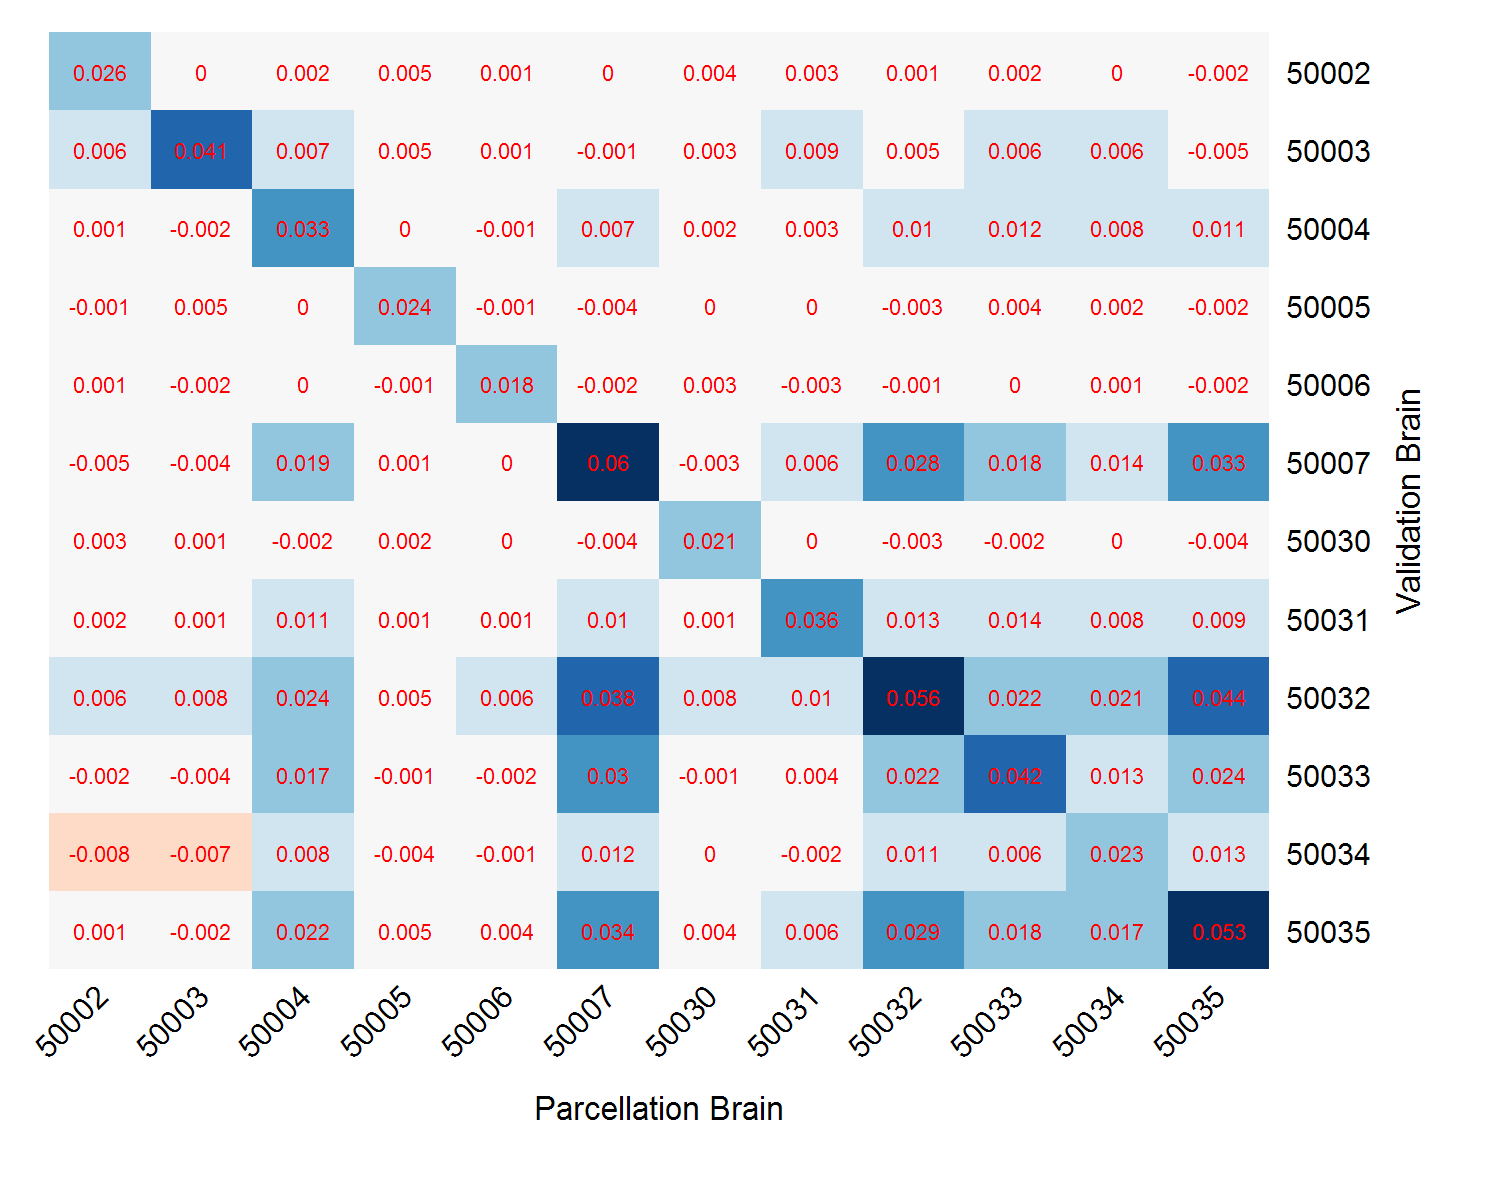
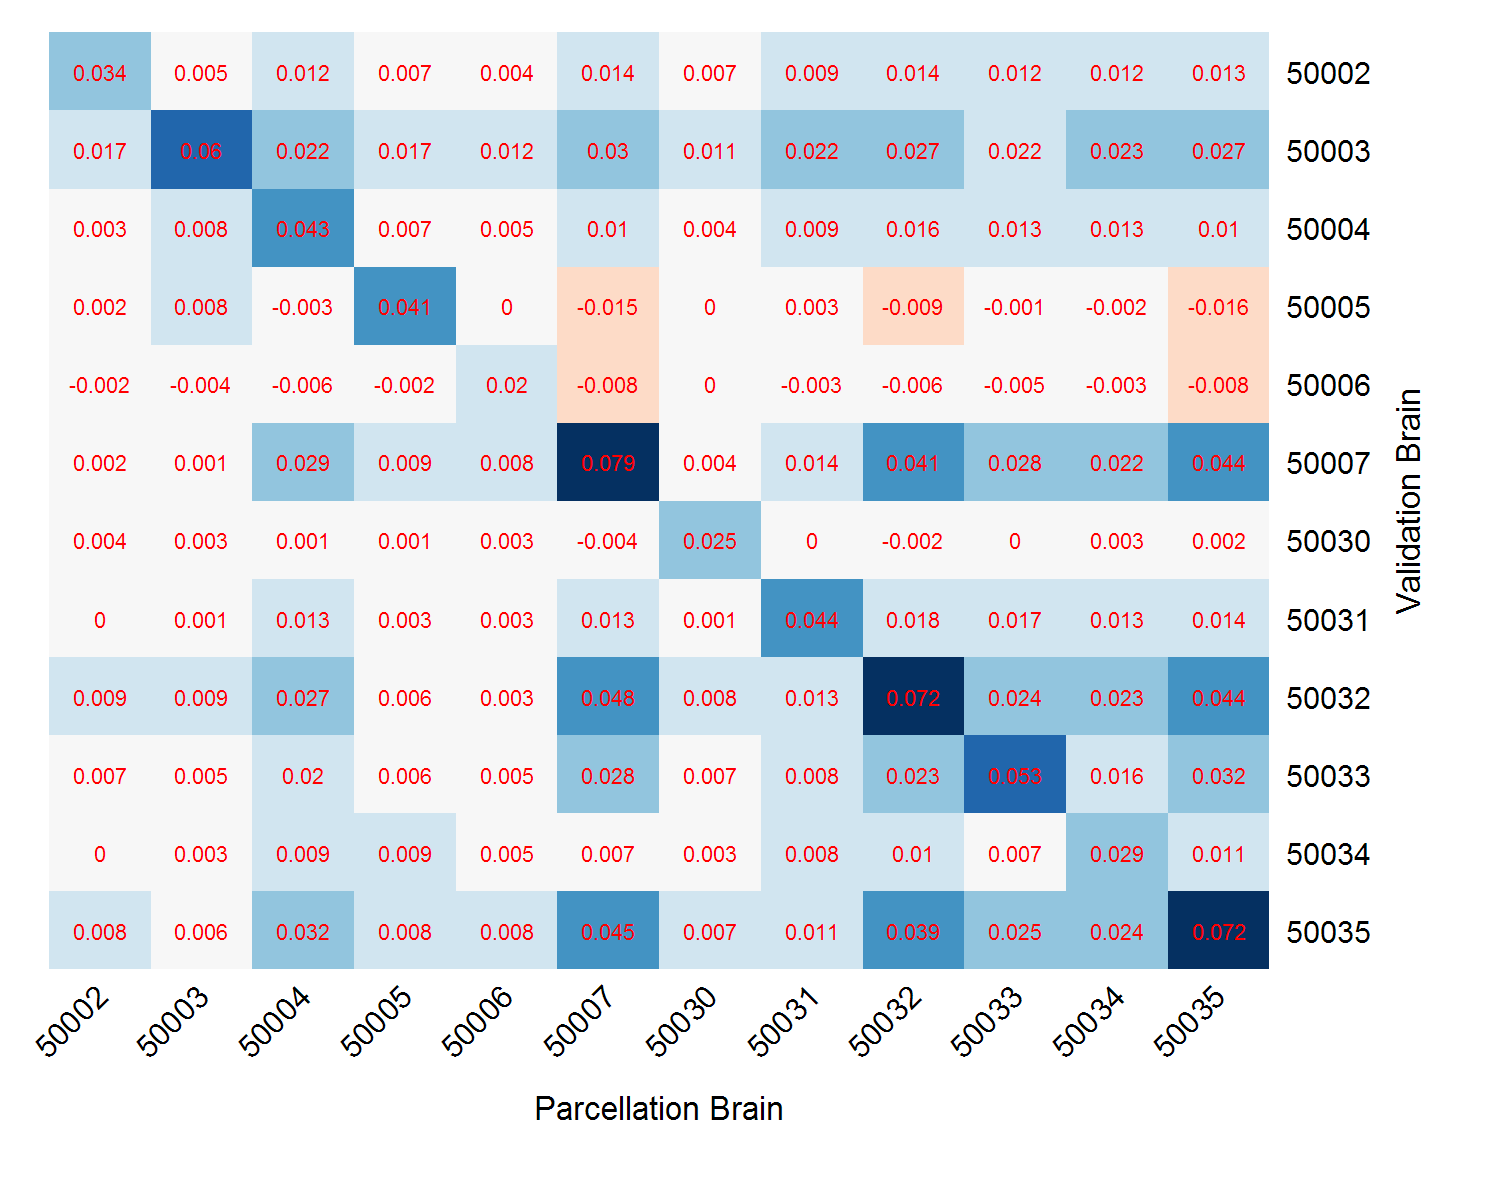
edits

diff --git a/writeup/intro.tex b/writeup/intro.tex
@@ -1,6 +1,3 @@
-% 1. fact check claim that other brain parcellation studies use
-%    Pearson's correlation (not absolute value) as edge weights
-%#######################################################################
 
 Paragraph 1: Write here what would happen in the ideal world
 
@@ -10,136 +7,120 @@ Paragraph 3: Write here what we do instead to overcome this problem
 
 \section{fMRI Background}
 
-{\color{blue}
+Functional magnetic resonance imaging (fMRI) is a technique that
+measures brain activity. It does this by measuring blood flow and
+oxygenation in different parts of the brain. When an area of the brain
+is in use, it consumes more oxygen and hence requires more blood.
+The fMRI machine detects magnetic signals from the hydrogen atoms of
+water molecules in blood. The signal emitted depends on the contents
+of the blood, in particular how much oxygen it contains. This detection
+method is referred to as blood-oxygen-level dependent, or BOLD.
 
-Functional magnetic resonance imaging or functional MRI (fMRI) is a
-functional neuroimaging procedure using MRI technology that measures
-brain activity by detecting changes associated with blood flow.
-When an area of the brain is in use, blood flow to that region also
-increases. The primary form of fMRI uses the blood-oxygen-level
-dependent (BOLD) contrast. The fMRI concept builds on the earlier MRI
-scanning technology and the discovery of properties of oxygen-rich
-blood. 
-The basis of MRI revolves around changing the magnetic moment of proton
-in hydrogen atoms abundantly found in the human body. MRI brain scans
-use a strong, permanent, static magnetic field to align nuclei in the
-brain region being studied. Another magnetic field, the gradient field,
-is then applied to spatially locate different nuclei.
+The fMRI machine detects, for all regions of the brain, the change in
+magnetic signal within a given time frame (typically 2 seconds) and
+records this as a 3-dimensional image. This image is comprised of units
+called voxels, each representing a cube of brain tissue. These 3-D units
+are analogous to 2-D pixels that make up computer screens. Each voxel
+represent around a million brain cells.
 
-Finally, a radiofrequency (RF) pulse is played to kick the nuclei to
-higher magnetization levels, with the effect now depending on where
-they are located. When the RF field is removed, the nuclei go back to
-their original states, and the energy they emit is measured with a coil
-to recreate the positions of the nuclei. MRI thus provides a static
-structural view of brain matter. The central thrust behind fMRI was to
-extend MRI to capture functional changes in the brain caused by
-neuronal activity. Differences in magnetic properties between arterial
-(oxygen-rich) and venous (oxygen-poor) blood provided this link.
-
-The fMRI machine records the relative change detected within a time
-frame (typically 2 seconds) in magnetization as a 3-dimensional image.
-The 3-dimensionsal image it provides is built up in units called
-voxels. Each one represents a tidy cube of brain tissue -- a 3-D image
-building block analogous to the 2-D pixel of computers screens,
-televisions or digital cameras. When visualized on a monitor, typically
-each intensity level is encoded as a varying shade of gray. \{Probably
-good to include an image of the ``typical" fMRI scan\}
-
-Each voxel can represent a million or so brain cells. As measurements
-are made over time (for example, over 10 minutes), the neuroscietist
-collects multiple 3-dimensional images in the form of a time series. 
-
-\{This information was primarily taken from wiki,
-\url{https://www.youtube.com/watch?v=djAxjtN\_7VE},
-\url{http://science.howstuffworks.com/mri.htm} and
-\url{http://www.howequipmentworks.com/mri\_basics/}.\}
-}
+This measurement made repeatedly over all 2 second intervals in the
+course of around 10 minutes. The resulting data collected is a time
+series of 3-D images.
 
 \section{Parcellation Background}
 
-{\color{red} talk about AAL and do the literature review here.}
+Functional connectivity -- belief that certain parts of the brain
+  work together, even in resting-state [default, baseline] (no stimulus, but still processes going on)
+
+One of the core principles of neuroscience is functional connectivity
+-- the idea that 
+
 
 {\color{blue}
 One of the main goals of neuroscience studies is to determine
 the resting-state connectivity and functional organization of the brain.
-A
-number of functional networks have been identified associated with
+A number of functional networks have been identified associated with
 the motor system, language, and memory, in addition to numerous
-studies highlighting the default mode network CITE.
+studies highlighting the resting-state network CITE.
 More recently there has been an explosion of interest in applying
-network theory methods to the analysis of functional connectivity
-data in order to characterize the connectivity between nodes at the
-brain system level CITE.
+network theory (graph logic) methods to the analysis of functional
+connectivity data in order to characterize the connectivity between
+nodes at the entire brain system level CITE.
 Voxel-level network analyses have been developed
 that can provide insight into the functional connectivity
-of the brain, but these networks are often too complicated to practically
-allow further scientific investigation.
+of the brain, but these networks are often too complicated to
+practically allow further scientific investigation.
 
 Hence, a parcellation-level network is a natural idea where
 each parcel represents a group of spatially-adjacent voxels that
 have similar functional behaviors. 
 Many authors have used atlas-based definitions the Brodmann-based
-automatic anatomic labeling atlas (AAL) \cite{tzourio2002automated} which defines 114 parcels based on the brain
-anatomy.
+automatic anatomic labeling atlas (AAL) \cite{tzourio2002automated}
+which defines 116 parcels based on the brain anatomy.
 While apparently meaningful results have
 been obtained with such approaches \cite{hartman2011role, he2009uncovering, liu2008disrupted, lynall2010functional, power2011functional, salvador2005neurophysiological, spoormaker2010development, supekar2008network, tian2011hemisphere, wang2009parcellation}, they are not ideal due to two reasons.
-First, while brain anatomy is a reasonable factor in determine functionally-similar
-regions, a data-driven parcellation estimated in a statistical fashion
-could perform better. Second, anatomically-based parcellation have a fixed
-number of parcels. Investigators seeking a higher-resolution network would
-need a higher-resolution parcellation, which is unavailable.
+First, while brain anatomy is a reasonable factor in determine
+functionally-similar regions, a data-driven parcellation estimated in a
+statistical fashion could perform better. Second, anatomically-based
+parcellation have a fixed number of parcels. Investigators seeking a
+higher-resolution network would need a higher-resolution parcellation,
+which is unavailable.
 
 A data-driven parcellation would resolve these problems. 
-The bulk of most parcellation methods revolve around recasting our problem into
-a clustering problem with spatial constraints. \cite{biswal2010toward,smith2009correspondence}
-use Independent Component Analysis (ICA) to determine regions of voxels whereby the 
-mean signal from each region are roughly independent with one another. \cite{chen2008group} 
-extended this idea by using PCA first to determine the number of clusters, while
-\cite{beckmann2005investigations, de2006fmri} extend this idea by fitting
-a mixture model to each component found in ICA. Another large
+The bulk of most parcellation methods revolve around recasting our
+problem into a clustering problem with spatial constraints.
+\cite{biswal2010toward,smith2009correspondence} use Independent
+Component Analysis (ICA) to determine regions of voxels whereby the
+mean signal from each region are roughly independent with one another.
+\cite{chen2008group} extended this idea by using PCA first to determine
+the number of clusters, while
+\cite{beckmann2005investigations, de2006fmri} extend this idea by
+fitting a mixture model to each component found in ICA. Another large
 body of works include K-means clustering \cite{flandin2002parcellation,mezer2009cluster,peltier2003detecting,thirion2006dealing}.
-Some authors using K-means clustering use the measured fMRI signal as the covariates while
-others use the frequency coefficients determined by the Fourier transform. The authors
-incorporate spatial distances to ensure that the resulting parcellations are connected.
-Hierarchical clustering is another natural candidate, whereby different authors merge
+Some authors using K-means clustering use the measured fMRI signal as
+the covariates while others use the frequency coefficients determined
+by the Fourier transform. The authors incorporate spatial distances to
+ensure that the resulting parcellations are connected. Hierarchical
+clustering is another natural candidate, whereby different authors merge
 neighboring voxels according to varying statistics \cite{diez2014novel,bellec2006identification,lu2003region,heller2006cluster}.
 
-The methods developed in our thesis are most similar to
-spectral methods. Spectral methods represent another large body of literature to cluster voxels
+The methods developed in our thesis are most similar to spectral
+methods. Spectral methods represent another large body of literature to
+cluster voxels
 \cite{craddock2012whole,van2008normalized,shen2010graph,newman2006modularity,shen2013groupwise,zhang2014robust}.
-These methods include spectral clustering or spectral partitioning. These methods typically
-form the weight matrix by the distances from K-nearest neighbors, by Pearson correlation,
-or regularized linear regression. As spectral methods tend to split the covariates into
-two clusters, these methods are applied recursively onto each cluster. 
+These methods include spectral clustering or spectral partitioning.
+These methods typically form the weight matrix by the distances from
+K-nearest neighbors, by Pearson correlation, or regularized linear
+regression. As spectral methods tend to split the covariates into two
+clusters, these methods are applied recursively onto each cluster.
 
-There is a wide literature of less commonly-used methods. \cite{alexander2012discovery} recast
-the problem as a community-detection problem based on the wavelet frequency.
-\cite{baria2011anatomical} bin the frequencies and do local $t$-tests to determine
-whether or not two voxels are significantly related. \cite{cohen2008defining, gordon2014generation, barnes2011parcellation} recast the problem to be an edge-detection
-problem using the developments in computer vision where they input heatmaps formed by
-correlation values. The edge-detection algorithm then outputs visually-distinct components
-based on the images. \cite{ryali2013parcellation,pohl2007hierarchical} build sophisticated
-mixture models for how each voxel value is realized and use an expectation-maximization
-(EM) algorithm to uncover the clustering. Spatial priors can be incorporated into the
-model to encourage connected parcellations while multiple initializations can be used as
-a heuristic to determine the ``likeliness" of two voxels belonging to the same parcel.
-Finally, \cite{blumensath2013spatially} computes the Kendall's coefficient of concordance
-at each voxel and its 26 spatial neighbors and grows clusters based on these values.
+There is a wide literature of less commonly-used methods.
+\cite{alexander2012discovery} recast the problem as a
+community-detection problem based on the wavelet frequency.
+\cite{baria2011anatomical} bin the frequencies and do local $t$-tests
+to determine whether or not two voxels are significantly related.
+\cite{cohen2008defining, gordon2014generation, barnes2011parcellation}
+recast the problem to be an edge-detection problem using the
+developments in computer vision where they input heatmaps formed by
+correlation values. The edge-detection algorithm then outputs visually
+distinct components based on the images.
+\cite{ryali2013parcellation,pohl2007hierarchical} build sophisticated
+mixture models for how each voxel value is realized and use an
+expectation-maximization (EM) algorithm to uncover the clustering.
+Spatial priors can be incorporated into the model to encourage
+connected parcellations while multiple initializations can be used as a
+heuristic to determine the ``likeliness" of two voxels belonging to the
+same parcel. Finally, \cite{blumensath2013spatially} computes the
+Kendall's coefficient of concordance at each voxel and its 26 spatial
+neighbors and grows clusters based on these values.
 }
-
-Functional parcellation of the human brain can be defined as the problem
-of partitioning the voxels into $k$ disjoint connected components with
-the goal that the voxels within each component are, in a rough sense,
-\"similar\" to each other and voxels in different components are less
-\"similar\". Such similarity has been defined in a multitude of ways in
-the literature [see lit review section ...]. For this project thus far I
-have taken similarity between voxels to mean statistical dependence.
 
 \section{Overall Strategy}
 {\color{red}
 Let's move this stuff about correlation to the beginning of the next
-chapter about energy statistics. For now, it's good enough to say in one paragraph that we'll use some nonlinear dependency in our procedure or
-something (high level summary)}
+chapter about energy statistics. For now, it's good enough to say in
+one paragraph that we'll use some nonlinear dependency in our
+procedure or something (high level summary)}
 
 To measure dependence, statisticians have traditionally used the Pearson
 correlation coefficient, in addition to the rank-based Kendall tau and
@@ -170,7 +151,6 @@ correlation from negative. As a result in many of the edges between
 different parcels, the corresponding voxels would be strongly dependent
 with negative correlation.
 
-
 \section{About the Data}
 {\color{blue}
 
@@ -185,10 +165,9 @@ Data Exchange (ABIDE) -- a consortium aggregating and openly sharing
 information from 539 individuals with ASDs and 573 age-matched typical
 controls (TCs; 7–64 years).
 
-For simplicity in this thesis, we focus on
-\{NUMBER OF SUBJECTS YOU'RE ACTUALLY USING\}
-scanned at the University of Pittsburgh School of Medicine.
-These autistic subjects included individuals from 7 to 35 years of age,
+For simplicity in this thesis, we focus on 6 autistic and 6 control
+subjects scanned at the University of Pittsburgh School of Medicine.
+The autistic subjects included individuals from 7 to 35 years of age,
 with a well-characterized Autistic Disorder. The Autism Diagnostic
 Interview-Revised \cite{lord1994autism} and the Autism Diagnostic
 Observation Schedule-General \cite{lord2000autism}, as well as expert

diff --git a/writeup/results.tex b/writeup/results.tex
@@ -166,35 +166,51 @@ different brain graphs for there to be a common parcellation fitting
 all brains.
 
 \begin{figure}
-\caption{Adjacent-Score Minus Mean Edge Weight Cross-Validation of
-116-Parcel GenEC (6,4) Parcellation on 12 Autism and Control Brains}
+\caption{Difference of Adjacent-Score, Cross-Validation of 116-Parcel
+GenEC (6,4) Parcellation on 12 Autism and Control Brains}
 \label{cv_ec}
 \includegraphics[scale = 1]{figs/8_cv_ec.png}
 \end{figure}
 
-To test this hypothesis, we conducted a cross-validation procedure where
-for each pair of brains, we parcellated one using GenEC (6,4) and
-computed the Adjacent-Score of the resulting parcellation on the
-\textit{other} brain. From this Adjacent-Score we subtracted the mean
-edge weight on the test brain and display the resulting 12 by 12 matrix
-in Figure (\ref{cv_ec}).
+To verify this, we conducted a cross-validation procedure where
+for each pair of brains, we let one be the parcellation brain and one
+be the validation brain. On the parcellation brain we performed two
+parcellations: GenEC (6,4) and Shuffled GenEC (6,4) for the control.
+On the validation brain we computed the Adjacent-Scores of both
+parcellations. We stored the difference GenEC minus Shuffled in a
+12 by 12 matrix, displayed in Figure (\ref{cv_ec}). The diagonal values
+are in-sample Adjacent-Scores where the parcellation brain and the
+validation brain are the same.
 
-Brains labeled 50030 and greater are control brains. It is interesting
-that cross-validation scores within the control cohort are higher than
-those between the two cohorts and those within the autistic cohort.
-Further investigation is needed to determine if this result is
-significant.
+Assuming normality, a one sample t-test of the mean non-diagonal
+cross-validation value shows that it is significantly greater than 0
+($p \leq 2.2 \times 10^{-16}$). This indicates some degree of similarity
+between different brains in the statistical dependencies of adjacent
+voxels. Furthermore, Welch's two sample t-test of unequal variances
+tells us the mean off-diagonal CV value in the autism cohort and the
+control cohort are unequal ($p = 0.0138$). The control group has a
+higher realized mean. These observations can serve as a basis for
+further study.
 
-Finally, we investigate whether both the low Adjusted Rand Index and
-cross-validation scores between parcellations of different brains could
-be due to overfitting. The GenEC methods produced parcellations that
-scored well in-sample but very poorly out-of-sample, so it is possible
-that the parcellations they produce are too flexible. To see if this
-could be the case, we perform the same cross-validation procedure
-except now using the spectral method (with GenEC (6,4) post-processing
-to ensure parcel connectedness). Partitions obtained via the spectral
-method are smoother, and thus are less likely to overfit the
-Adjacent-Score.
+Finally, we investigate whether the GenEC (6,4) parcellations could be
+overfitting. The GenEC methods produced parcellations that scored well
+in-sample (diagonal mean 0.048) but not as well out-of-sample
+(off-diagonal mean 0.010), so it is possible that the parcellations
+they produce are too flexible. To see if this could be the case, we
+perform the same cross-validation procedure except now using the
+spectral method. The reason for this is that partitions obtained via the
+spectral method have lower Jaggedness values and smoother surfaces,
+and hence are less likely to overfit the graph.
+
+\begin{figure}
+\caption{Difference of Adjacent-Score, Cross-Validation of
+116-Parcel Spectral Parcellation on 12 Autism and Control Brains}
+\label{cv_sp}
+\includegraphics[scale = 1]{figs/8_cv_sp.png}
+\end{figure}
+
+Figure (\ref{cv_sp}) shows the results of the cross-validation procedure
+using the spectral partitioning method.
 
 \section{Conclusion}
 

diff --git a/writeup/figs/8_autism.tex b/writeup/figs/8_autism.tex
@@ -5,7 +5,7 @@
 & \rot{Balance}
 & \rot{Jaggedness}
 \\ \hline
-AAL                 & 0.735 &       &        &       
+AAL                 & 0.735 & 0.821 & 74.675 & 1.365 & 0.323 & 28.882 \\
 GenEC (3,1)         & 0.762 & 0.821 & 46.615 & 1     & 0.210 & 25.008 \\
 GenEC (6,1)         & 0.769 & 0.827 & 51.613 & 1     & 0.249 & 31.178 \\
 GenEC (6,4)         & 0.771 & 0.821 & 51.705 & 1     & 0.309 & 31.821 \\

diff --git a/writeup/figs/8_control.tex b/writeup/figs/8_control.tex
@@ -5,6 +5,7 @@
 & \rot{Balance}
 & \rot{Jaggedness}
 \\ \hline
+AAL                 & 0.747 & 0.804 & 74.735 & 1.375 & 0.324 & 28.791 \\
 GenEC (3,1)         & 0.766 & 0.799 & 47.118 & 1     & 0.251 & 23.930 \\
 GenEC (6,1)         & 0.774 & 0.796 & 51.342 & 1     & 0.280 & 28.801 \\
 GenEC (6,4)         & 0.773 & 0.800 & 51.285 & 1     & 0.335 & 29.199 \\
